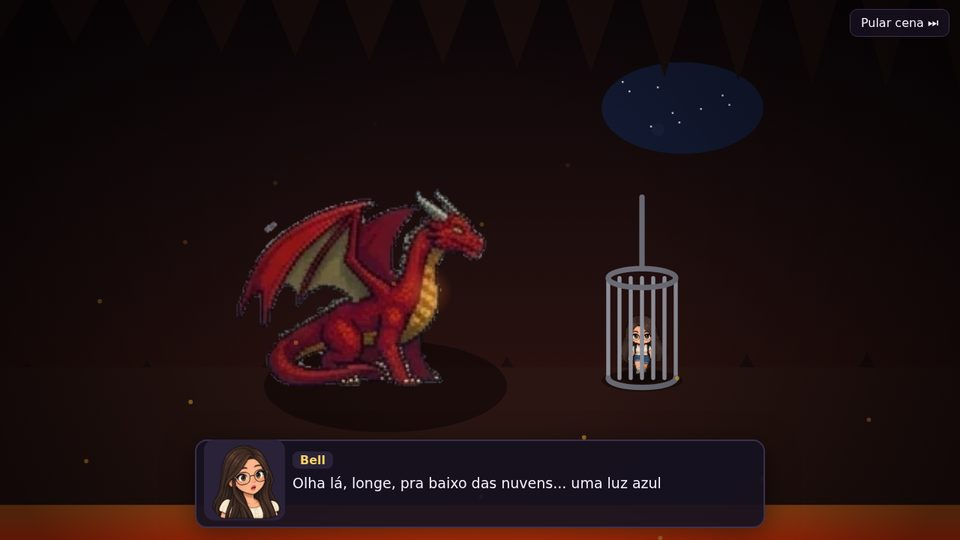
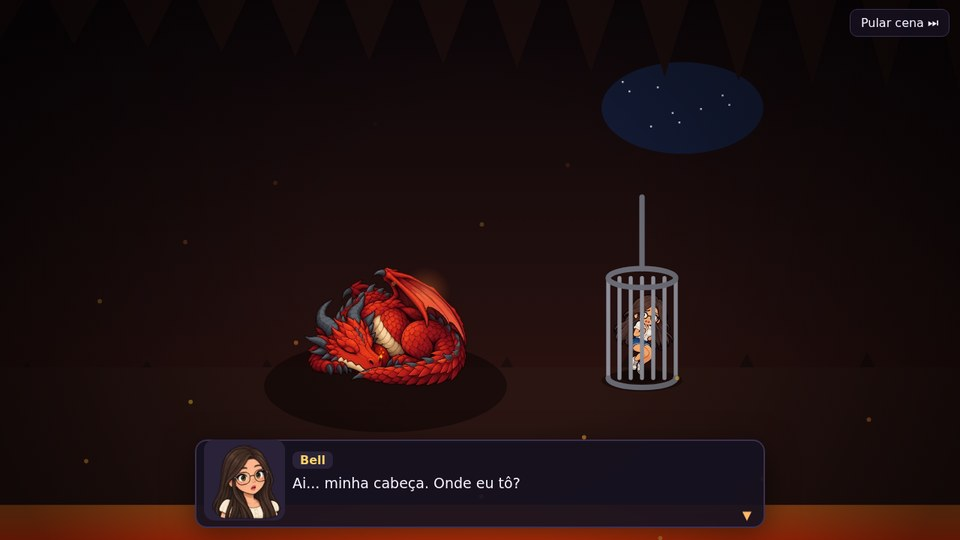
Dragão dormindo com chifres e espinhos pretos
A arte do item 285 (DRAGON_SLEEP) veio com chifres, espinhos e garras creme;
em todas as outras animações o dragão tem chifres e espinhos pretos.

- Extrator: CHIFRES_PRETOS pinta os pedaços creme com o cinza-escuro dos
  chifres do dragão parado (item 80), mantendo os gomos e o brilho. A barriga
  e o queixo, que são creme mesmo, ficam (pedaços ligados só pelos lados, para
  o contorno preto separar cada espinho da barriga). O brilho da narina fica.
- Teste: o dragão dormindo tem menos de 10% de creme e mais de 6% de
  cinza-escuro (antes: 18% e 0%).
- Documentação: novidade, aviso na seção 23.1, foto nova do interlúdio e a
  descrição do DRAGON_CURL_SLEEP pendente pede chifres e espinhos pretos.

Claude-Session: https://claude.ai/code/session_012xq3wG9BiDoURpGHwGnLJQ

diff --git a/tests/rodar.js b/tests/rodar.js
@@ -1262,6 +1262,24 @@ teste('parte 2: a Bell em guarda nas quatro direções (itens 286 a 288) e o dra
   igual(r.heroina, 'bell', 'a Bell é a heroína');
   igual(r.vistos, { FRONT: 'BELL_COMBAT_IDLE_FRONT', BACK: 'BELL_COMBAT_IDLE_BACK', LEFT: 'BELL_COMBAT_IDLE_LEFT', RIGHT: 'BELL_COMBAT_IDLE_LEFT*' }, 'guarda nas quatro direções (a da direita é a da esquerda espelhada)');
   igual(r.dragao, ['LINE_BELL_ITEM_285.html', 215, true], 'dragão dormindo do item 285, no tamanho dos outros e respirando');
+  // A arte veio com chifres, espinhos e garras creme; no jogo eles são pretos, como nas outras animações.
+  const cores = await h.ev(async () => {
+    const img = new Image(); img.src = window.SPRITES.DRAGON_SLEEP.src; await img.decode();
+    const cv = document.createElement('canvas'); cv.width = img.width; cv.height = img.height;
+    const ctx = cv.getContext('2d'); ctx.drawImage(img, 0, 0);
+    const d = ctx.getImageData(0, 0, cv.width, cv.height).data;
+    let op = 0, creme = 0, cinza = 0;
+    for (let i = 0; i < d.length; i += 4) {
+      if (d[i + 3] <= 128) continue;
+      op++;
+      const r = d[i] / 255, g = d[i + 1] / 255, b = d[i + 2] / 255, mx = Math.max(r, g, b), c = mx - Math.min(r, g, b), s = mx ? c / mx : 0;
+      const h = !c ? 0 : 60 * (mx === r ? ((g - b) / c + 6) % 6 : mx === g ? (b - r) / c + 2 : (r - g) / c + 4);
+      if (h >= 15 && h <= 48 && s < 0.7 && mx > 0.3) creme++;
+      if (s < 0.25 && mx > 0.08 && mx < 0.5) cinza++;
+    }
+    return { creme: +(creme / op).toFixed(3), cinza: +(cinza / op).toFixed(3) };
+  });
+  afirmar(cores.creme < 0.1 && cores.cinza > 0.06, 'dragão dormindo com chifres e espinhos pretos (creme só na barriga e no queixo): ' + JSON.stringify(cores));
 });
 
 teste('dicas do Fácil: seta aponta a saída certa, o cristal apagado e o chefe', async (h) => {

diff --git a/game/js/animacoes.js b/game/js/animacoes.js
@@ -487,7 +487,7 @@ window.LB = window.LB || {};
   grupo('Dragão amigo (Parte 2)', [
     ['DRAGON_TALK', 'Dragão falando calmo (abertura da Parte 2)', { loop: true, fps: 4, quadros: 6, alt: 'DRAGON_IDLE', parte2: true }],
     ['DRAGON_BOW', 'Dragão abaixa a cabeça (pede ajuda / agradece)', { fps: 6, quadros: 8, alt: 'DRAGON_IDLE', parte2: true }],
-    ['DRAGON_CURL_SLEEP', 'Dragão dormindo enrolado perto da casa (fazenda)', { loop: true, fps: 2, quadros: 4, alt: 'DRAGON_SLEEP', parte2: true }],
+    ['DRAGON_CURL_SLEEP', 'Dragão dormindo enrolado perto da casa (fazenda), com chifres e espinhos pretos', { loop: true, fps: 2, quadros: 4, alt: 'DRAGON_SLEEP', parte2: true }],
   ]);
 
   grupo('Line com armadura: Túnica Acolchoada', [

diff --git a/tools/extrair_sprites.py b/tools/extrair_sprites.py
@@ -209,6 +209,42 @@ def tirar_maquina(fontes, lado):
     return saida
 
 
+# Arte com uma parte na cor errada. Em todas as animações o dragão tem chifres, espinhos e garras
+# pretos; no dragão dormindo do item 285 eles vieram creme. Os pedaços creme viram o cinza-escuro dos
+# chifres do dragão, menos a barriga e o queixo, que são creme mesmo: os pontos (x, y) na arte
+# original marcam esses dois pedaços.
+CHIFRES_PRETOS = {"DRAGON_SLEEP": (285, [(620, 680), (430, 880)])}
+# Cinza dos chifres do dragão parado (item 80): sombra, meio-tom e luz.
+CINZA_CHIFRE = ((24, 22, 27), (54, 54, 63), (100, 103, 112))
+
+
+def chifres_pretos(im, fica_creme):
+    import numpy as np
+    from scipy import ndimage
+    a = np.asarray(im.convert("RGBA")).astype(float)
+    rgb = a[..., :3] / 255
+    mx, mn = rgb.max(-1), rgb.min(-1)
+    d = np.maximum(mx - mn, 1e-6)
+    r, g, b = rgb[..., 0], rgb[..., 1], rgb[..., 2]
+    matiz = np.where(mx == r, ((g - b) / d) % 6, np.where(mx == g, (b - r) / d + 2, (r - g) / d + 4)) * 60
+    satur = (mx - mn) / np.maximum(mx, 1e-6)
+    # Creme = amarelado claro e pouco saturado. O vermelho das escamas e o brilho amarelo da narina ficam de fora.
+    creme = (a[..., 3] > 0) & (matiz >= 15) & (matiz <= 48) & (satur < 0.7) & (mx > 0.3)
+    # Pedaços ligados só pelos lados (não pela diagonal): o contorno preto separa cada espinho da barriga.
+    rot, _ = ndimage.label(creme)
+    manter = [rot[y, x] for x, y in fica_creme]
+    if not all(manter):
+        sys.exit(f"chifres_pretos: algum ponto de {fica_creme} não cai num pedaço creme")
+    pinta = creme & ~np.isin(rot, manter)
+    # A luz do creme vira a luz do cinza: os gomos e o brilho dos chifres continuam aparecendo.
+    t = np.clip((rgb @ [0.299, 0.587, 0.114] * 255 - 60) / 165, 0, 1)[..., None]
+    sombra, meio, luz = (np.array(c, float) for c in CINZA_CHIFRE)
+    cor = np.where(t < 0.5, sombra + (meio - sombra) * t * 2, meio + (luz - meio) * (t * 2 - 1))
+    a[pinta, :3] = cor[pinta]
+    print(f"  chifres, espinhos e garras pintados de cinza-escuro ({int(pinta.sum())} px); barriga e queixo continuam creme")
+    return Image.fromarray(a.round().astype(np.uint8), "RGBA")
+
+
 def processar(codigo, dados, origem):
     frames = dados["frames"]
     unicos, sequencia, indice = [], [], {}
@@ -224,6 +260,9 @@ def processar(codigo, dados, origem):
     passo = None
     if SEM_MAQUINA.get(codigo) == numero_item(origem):
         celulas = tirar_maquina([decodificar(u) for u in unicos], lado)
+    item_chifres, fica_creme = CHIFRES_PRETOS.get(codigo, (None, None))
+    if item_chifres == numero_item(origem):
+        celulas = [chifres_pretos(decodificar(u), fica_creme).resize((lado, lado), Image.LANCZOS) for u in unicos]
     if codigo in PERNAS_ALTERNADAS:
         import pernas_alternadas
         fonte = decodificar(unicos[0])

diff --git a/tools/gerar_documentacao.py b/tools/gerar_documentacao.py
@@ -82,6 +82,8 @@ w("> 📋 **Documento só com o que falta:** `docs/LINE_E_BELL_PENDENCIAS.md` (e
 w()
 w("> ⭐ **A Bell atira para cima e para baixo com arte própria (itens 253 a 256):** a estrela e o leque de estrelas chegaram **de frente** e **de costas** (8 e 10 quadros) e entram sozinhos quando a mira vira para cima ou para baixo, do mesmo tamanho da Bell parada. De lado ela ainda usa a substituta.")
 w()
+w("> 🎨 **Dragão dormindo com chifres e espinhos pretos:** a arte do item 285 veio com os chifres, os espinhos e as garras creme, mas em todas as outras animações o dragão tem chifres e espinhos pretos. Agora a extração pinta esses pedaços com o mesmo cinza-escuro dos chifres do dragão em pé, mantendo os gomos e o brilho; a barriga e o queixo, que são creme mesmo, ficam como vieram.")
+w()
 w("> 🚶♀ **Caminhadas, corridas e combate (itens 277 a 288):** as duas **andando lado a lado** (de frente e para os dois lados), **de mãos dadas** para a esquerda e para a direita e **correndo juntas** com a Line puxando a Bell, mais a **Bell em guarda** (de frente, de costas e de lado) e o **dragão dormindo** enrolado. No shopping, a ida até a mesa do BK agora é das duas lado a lado (as mãos dadas só vêm na saída), e no túnel elas entram de mãos dadas. No passeio até o lago, segurar a corrida faz as duas **correrem de mãos dadas** (antes de mãos dadas só dava para andar). A Bell jogável entra em guarda com a arte própria, e o dragão dormindo (no covil, na abertura da Parte 2, no epílogo e nos interlúdios) respira devagar.")
 w()
 w("> ✅ **Ajustes finais (itens 273 a 276):** a **Bell feliz** (12 quadros, pulando de alegria), as duas **de mãos dadas andando de frente** no traço novo (a arte pequena do laboratório saiu), a **Bell pendurada no dragão** de braços para cima, sem outro dragão desenhado junto (agora o rapto usa essa arte, com as mãos dela nas garras do dragão do jogo) e a **máquina de soco com o placar 000** desenhada, igual à de 038. Com isso, todas as animações que precisavam ser refeitas chegaram; falta só a Bell atacando de lado (pendências, seção 3).")

diff --git a/tools/doc_apendices.py b/tools/doc_apendices.py
@@ -364,6 +364,8 @@ def escrever(w, inv, itens=None):
     refeitas = sorted(extrair_sprites.PERNAS_ALTERNADAS)
     if refeitas:
         linhas.append("- **Pernas paradas:** " + ", ".join(f"`{c}`" for c in refeitas) + " chegaram com as duas pernas quase na mesma posição em todos os quadros (só o corpo balança), e a galinha parecia deslizar. O jogo refaz as pernas girando no quadril, uma depois da outra, e casa o passo com o chão percorrido. Vale reenviar com o ciclo de passos desenhado.")
+    for codigo, (item, _) in extrair_sprites.CHIFRES_PRETOS.items():
+        linhas.append(f"- **Cor do dragão:** `{codigo}` (item {item}) chegou com chifres, espinhos e garras creme; nas outras animações eles são pretos. O jogo já pinta esses pedaços de cinza-escuro (a barriga e o queixo continuam creme), então não precisa reenviar. Se for refeito, que venha com chifres e espinhos pretos.")
     for codigo, motivo in extrair_sprites.DESCARTADAS.items():
         linhas.append(f"- `{codigo}` saiu do jogo: {motivo}. Para reenviar.")
     if faltam:
